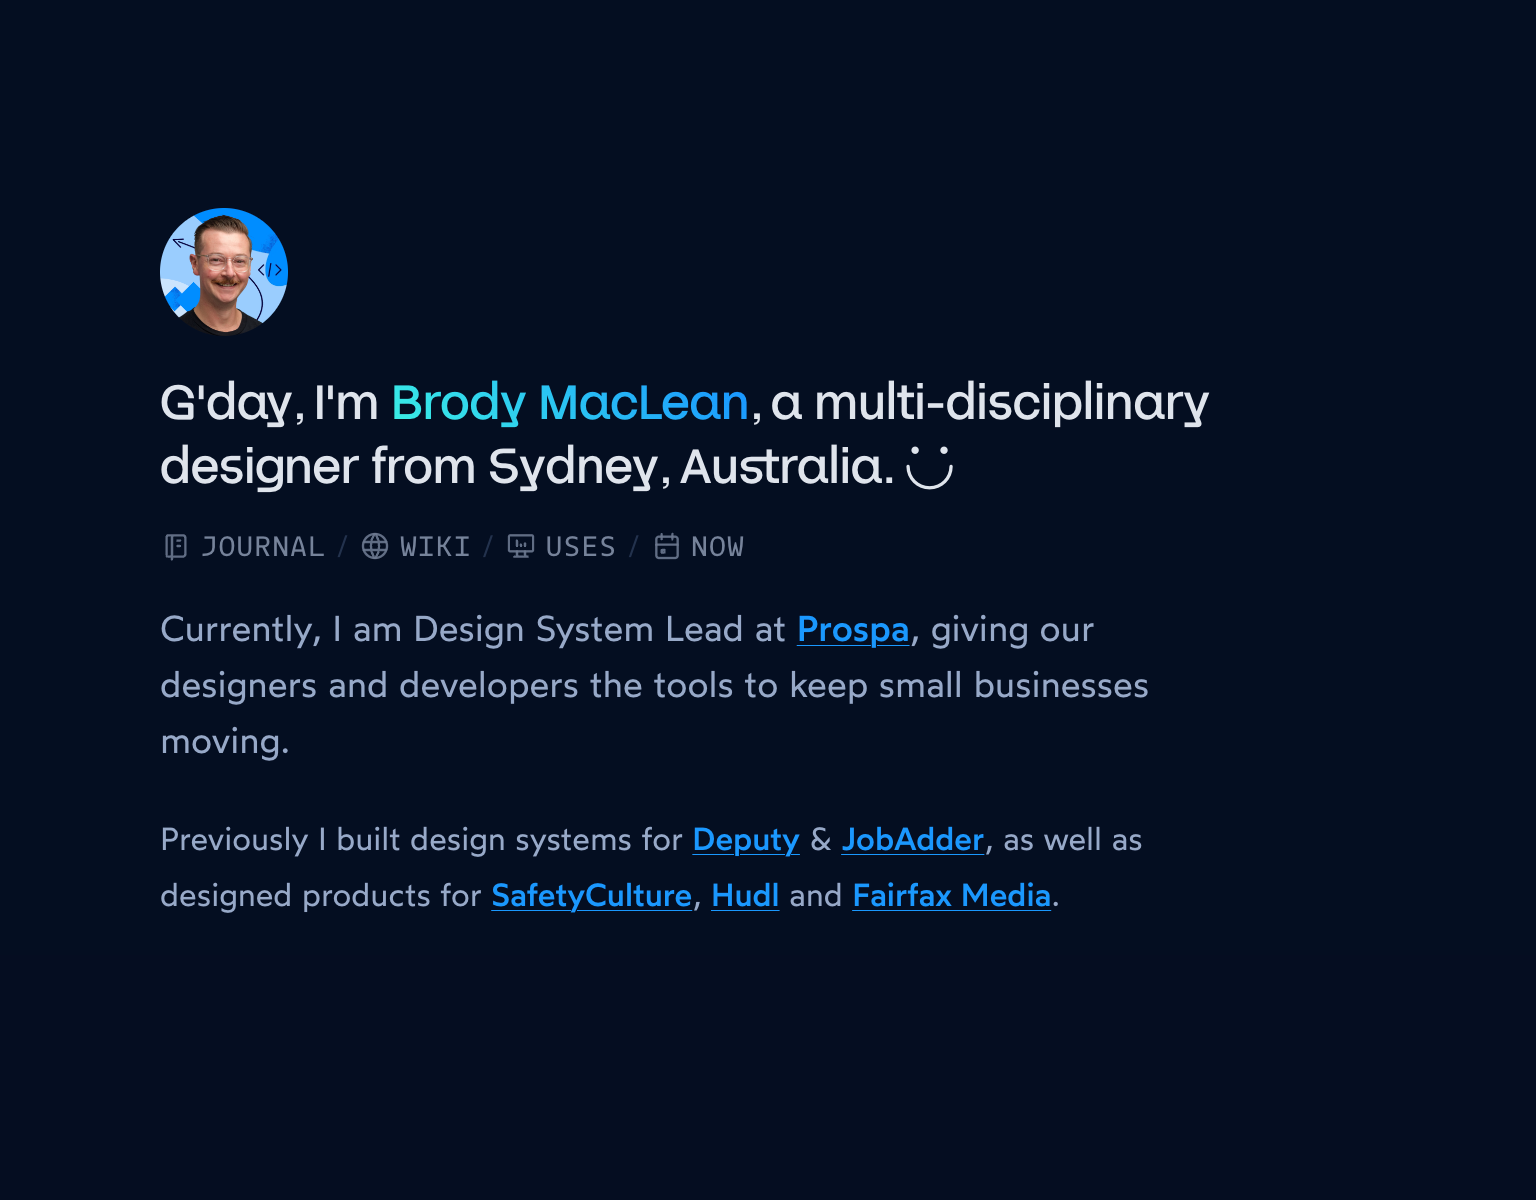
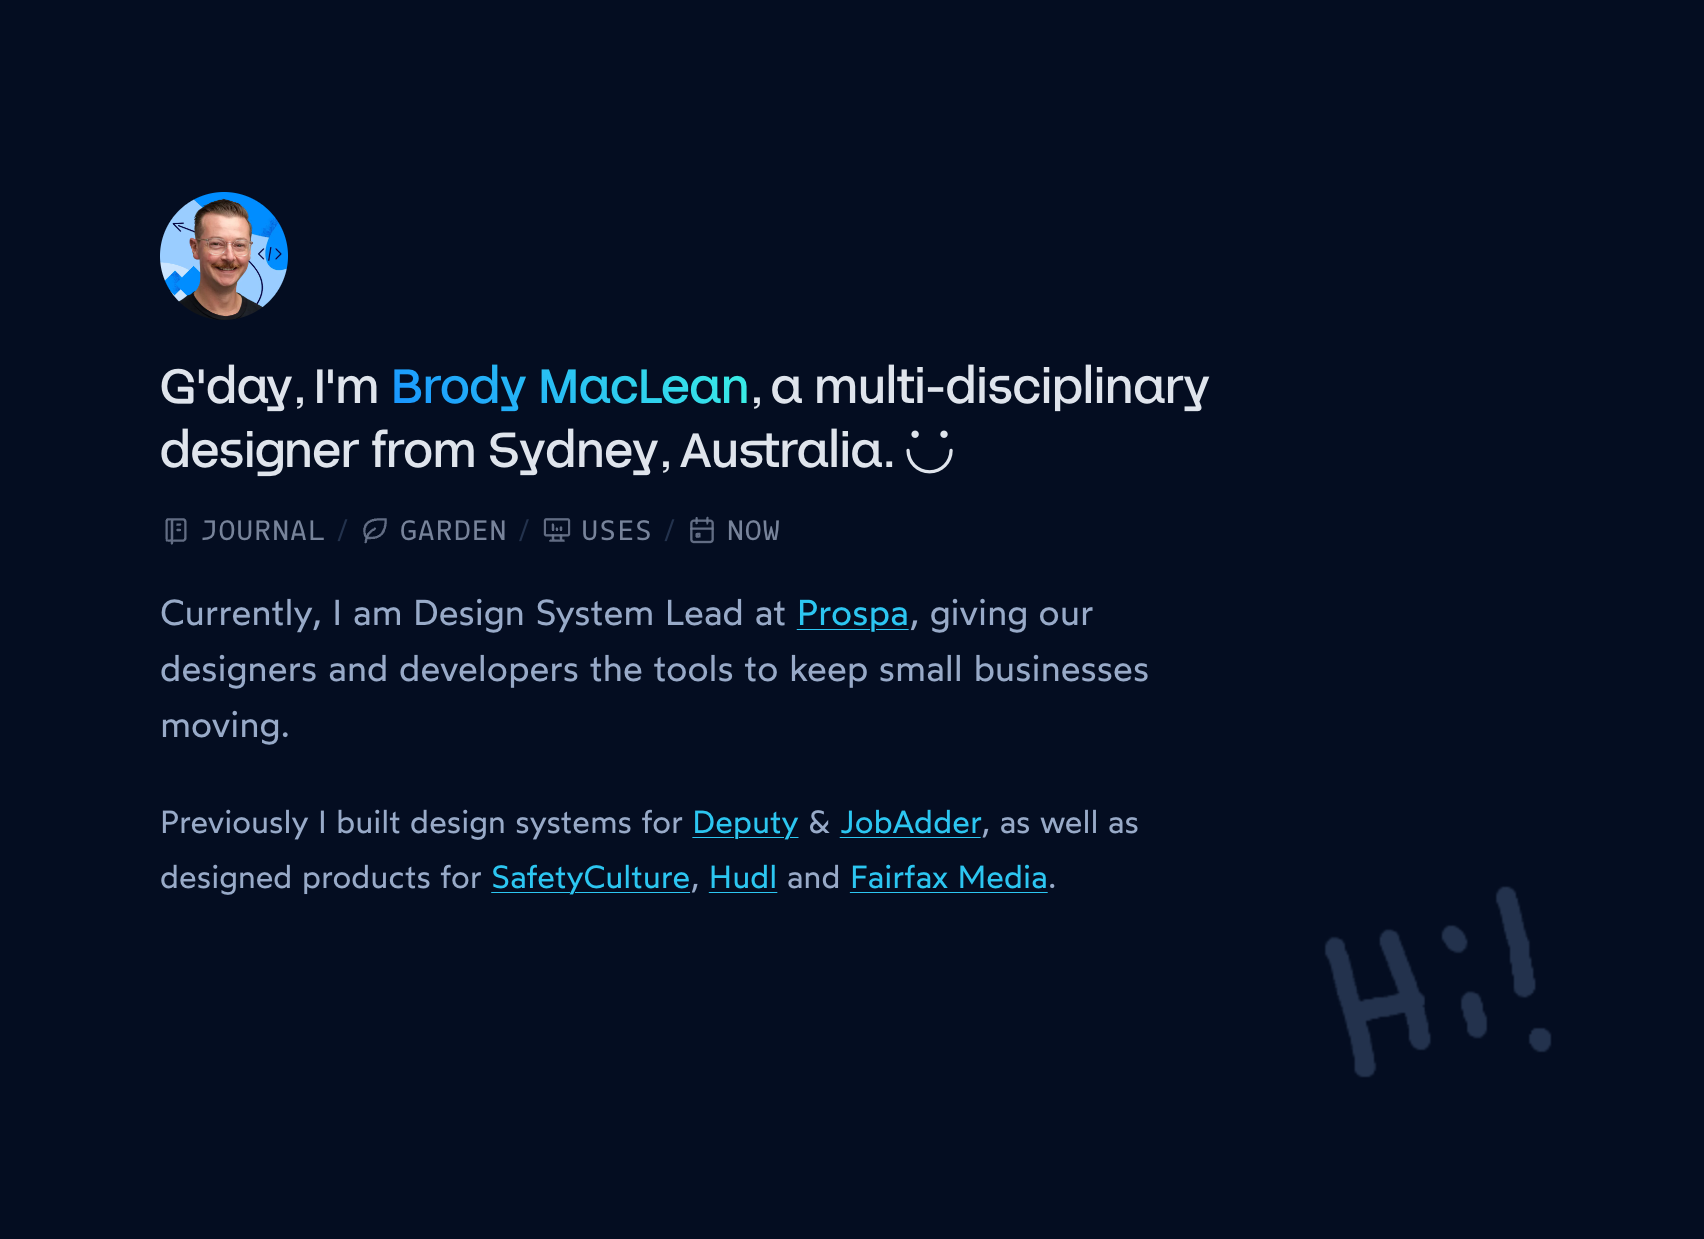
sticky nav, add about

Changed region(s): [[0.0938, 0.1542, 0.7812, 0.7708], [0.7812, 0.7092, 0.9062, 0.8633], [0.875, 0.8325, 0.9062, 0.8633]]

diff --git a/src/style/base.css b/src/style/base.css
@@ -238,7 +238,18 @@
     @apply text-lg;
   }
   .prose {
-    @apply !leading-[1.7] !text-default prose-headings:!mb-3 prose-headings:!font-heading prose-headings:!leading-[140%] prose-headings:!text-heading prose-h1:!text-2xl prose-h2:!text-[1.375rem] prose-h3:!text-lg prose-p:!text-default prose-a:!font-normal prose-a:!text-accent prose-a:!underline prose-a:!decoration-0 prose-a:!underline-offset-2 prose-a:!outline-2 prose-a:!outline-offset-1 prose-a:!outline-default hover:prose-a:!text-accent-hover prose-blockquote:!border-l-accent prose-blockquote:border-opacity-50 prose-blockquote:!font-normal prose-blockquote:!not-italic prose-blockquote:!text-default prose-blockquote:opacity-90 prose-figcaption:!text-subtle prose-figcaption:opacity-80 prose-strong:!text-default prose-code:rounded prose-code:!bg-subtle prose-code:p-1.5 prose-code:!font-normal prose-code:!text-heading prose-code:before:!content-[''] prose-code:after:!content-[''] prose-pre:!bg-subtle prose-pre:!leading-relaxed prose-pre:!text-default prose-ol:!text-default prose-ul:overflow-x-clip prose-ul:!text-default prose-li:marker:!text-accent prose-table:text-default prose-th:border prose-th:border-default prose-th:pt-2 prose-th:last-of-type:pr-2 prose-td:border prose-td:border-default prose-td:last-of-type:pr-2 prose-img:mx-auto prose-img:!mt-2 prose-hr:!border-default prose-lead:!text-lg prose-lead:!text-default;
+    @apply !leading-[1.7] !text-default prose-headings:!mb-3 prose-headings:!font-heading prose-headings:!leading-[140%] prose-headings:!text-heading prose-h1:!text-2xl prose-h2:!text-[1.375rem] prose-h3:!text-lg prose-p:!text-default prose-a:!font-normal prose-a:!text-accent prose-a:!underline prose-a:!decoration-0 prose-a:!underline-offset-2 prose-a:!outline-2 prose-a:!outline-offset-1 prose-a:!outline-default hover:prose-a:!text-accent-hover prose-blockquote:!border-l-accent prose-blockquote:border-opacity-50 prose-blockquote:!font-normal prose-blockquote:!not-italic prose-blockquote:!text-default prose-blockquote:opacity-90 prose-figcaption:!text-subtle prose-figcaption:opacity-80 prose-strong:!text-default prose-code:rounded prose-code:!bg-subtle prose-code:p-1.5 prose-code:!font-normal prose-code:!text-heading prose-code:before:!content-[''] prose-code:after:!content-[''] prose-pre:!bg-subtle prose-pre:!leading-relaxed prose-pre:!text-default prose-ol:!text-default prose-ul:overflow-x-clip prose-ul:!text-default prose-li:marker:!text-accent prose-table:text-default prose-th:border prose-th:border-default prose-th:pt-2 prose-th:last-of-type:pr-2 prose-td:border prose-td:border-default prose-td:last-of-type:pr-2 prose-img:mx-auto prose-img:!mt-8 prose-hr:!border-default prose-lead:!text-lg prose-lead:!text-default;
+  }
+
+  .prose section {
+    @apply px-0;
+  }
+
+  mark {
+    border-radius: 4rem 2rem 4.2rem 1.1rem;
+    padding: 0.125rem 0.25rem;
+    margin: -0.125rem -0.25rem;
+    /* text-wrap: nowrap; */
   }
 
   .prose thead th:first-child,
@@ -303,11 +314,11 @@
   }
 
   .breadcrumbs {
-    @apply flex items-center font-code text-sm uppercase text-subtle;
+    @apply sticky top-0 z-10 -mx-5 -mb-4 -mt-4 flex items-center rounded-full bg-default bg-opacity-90 px-5 pb-2 pt-2 font-code text-sm uppercase text-subtle backdrop-blur-sm;
   }
 
   .breadcrumbs a {
-    @apply flex items-center text-subtle no-underline transition-colors hover:text-accent;
+    @apply flex items-center py-2 text-subtle no-underline transition-colors hover:text-accent;
   }
 
   .breadcrumbs > * + :before {
